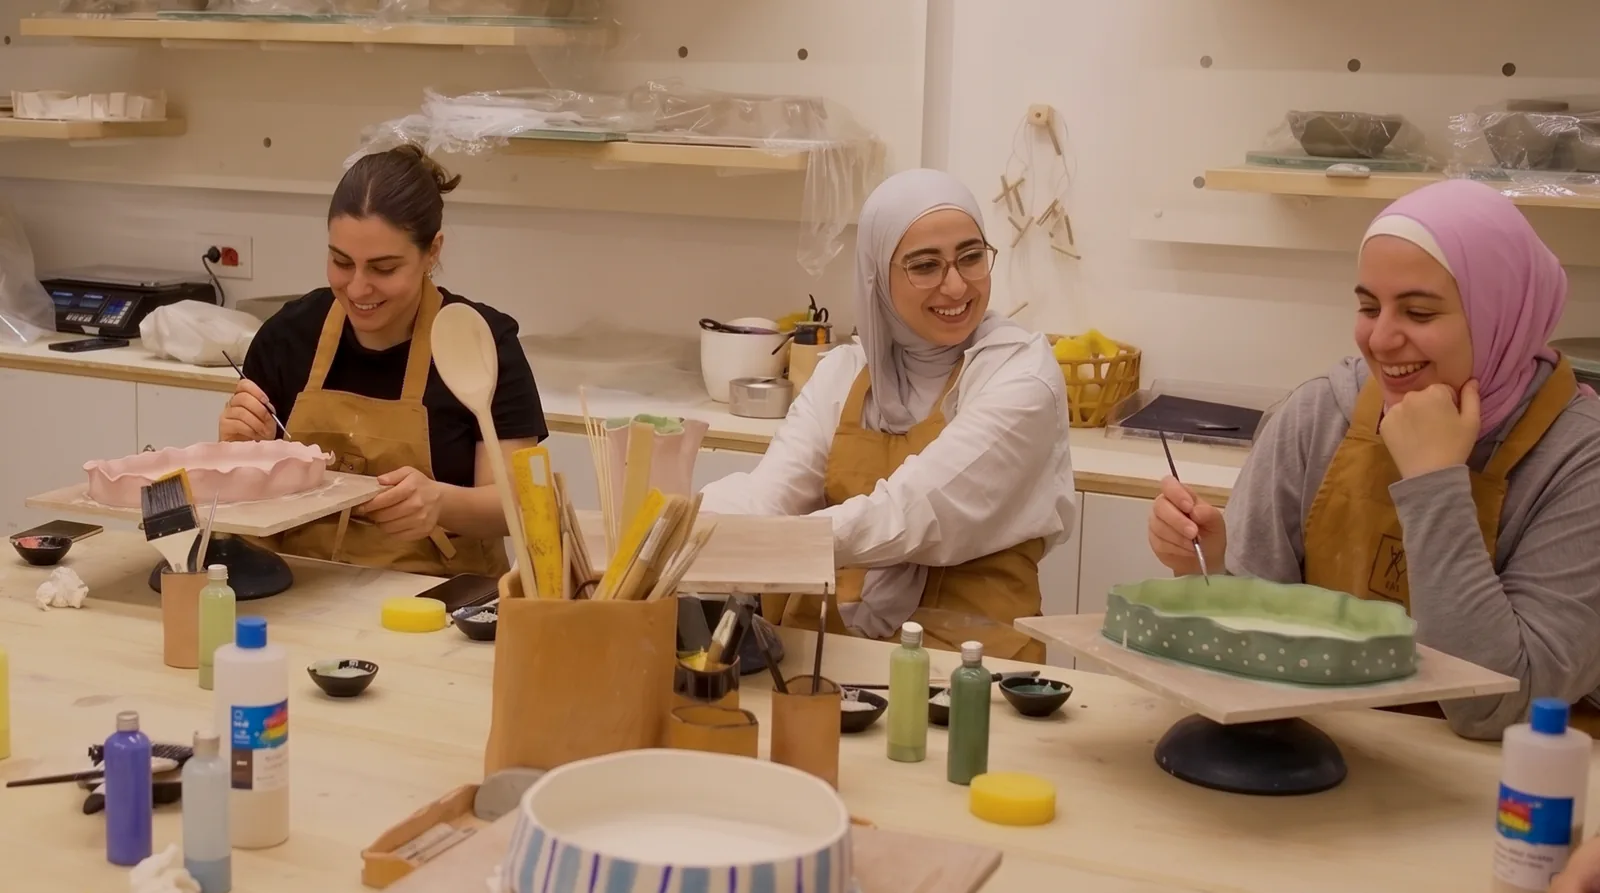
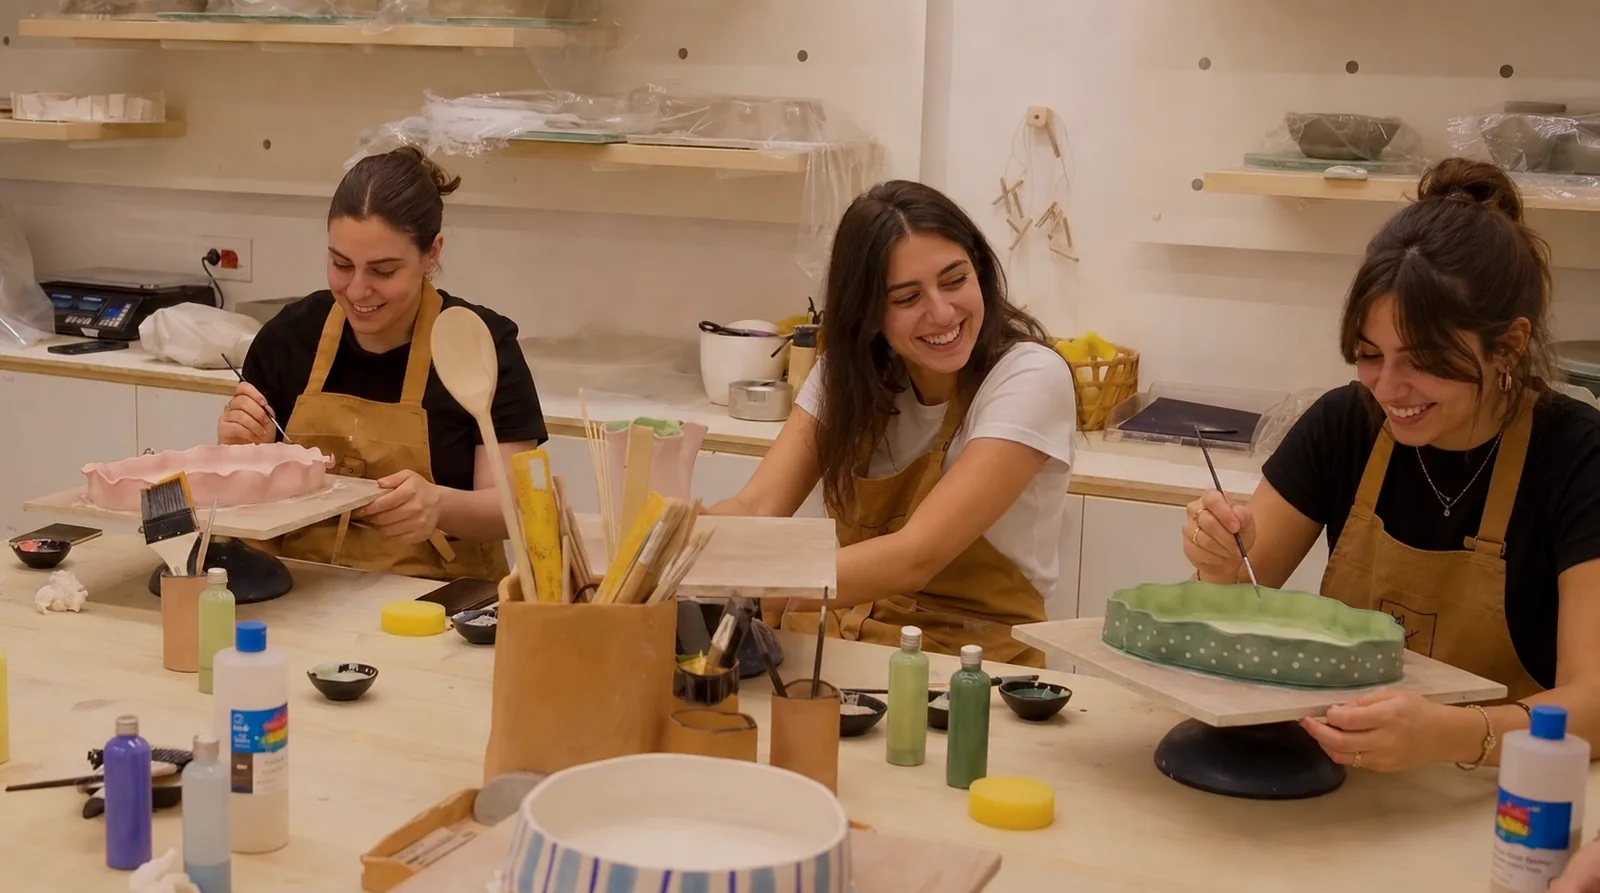
Refresh home visuals and responsive layout
Replaced placeholder CoffeeBar and tutor blocks on the Home page with real images, adjusted the section so mobile shows headings above each image, and limited the text cards to desktop. Updated asset usage by switching the studio image import from JPG to WebP and adding new home images. Also refined tutor image positioning in AboutUs and added the shared `title` class to the footer brand heading for consistent styling.

diff --git a/src/Pages/Home/Home.jsx b/src/Pages/Home/Home.jsx
@@ -21,7 +21,9 @@ import sculptureImage from "assets/images/home/sculpture.webp";
 import handbuildingImage from "assets/images/home/handbuilding.webp";
 import handbuildingMasteryImage from "assets/images/home/handbuilding-mastery.webp";
 import workshopImage from "assets/images/home/workshop-image.webp";
-import studioImage from "assets/images/home/studio-picture.jpg";
+import studioImage from "assets/images/home/studio-picture.webp";
+import coffeeBarImage from "assets/images/home/our-coffeebar.webp";
+import tutorImage from "assets/images/home/tutors-landscape.webp";
 import { Swiper, SwiperSlide } from "swiper/react";
 import { Pagination, Navigation, Autoplay, EffectFade } from "swiper/modules";
 import "swiper/css";
@@ -180,27 +182,41 @@ const Home = () => {
               </div>
             </div>
 
+            {/* Mobile only: CoffeeBar heading above its image (desktop shows it in the row below) */}
+            <div className="lg:hidden text-center mt-2">
+              <h3 className="text-2xl italic mb-2">Our CoffeeBar</h3>
+              <p className="text-gray-700">
+                Located on Rue du Liban, Way offers a cozy and stylish space to
+                freely create
+              </p>
+            </div>
+
             {/* Bottom Left - Coffeeshop Interior */}
             <div className="rounded-2xl lg:rounded-[32px] overflow-hidden h-[250px] lg:h-[300px] bg-gray-200">
               <div className="w-full h-full flex items-center justify-center text-gray-500">
-                [Coffeeshop Interior - 3D Render]
+                <img src={coffeeBarImage} alt="CoffeeBar" className="w-full h-full object-cover object-bottom" />
               </div>
             </div>
 
+            {/* Mobile only: Tutors heading above its image */}
+            <div className="lg:hidden text-center mt-2">
+              <h3 className="text-2xl italic mb-2">Our Tutors</h3>
+              <p className="text-gray-700">
+                Get to know the skilled tutors at Way, here to help you grow and
+                refine your craft.
+              </p>
+            </div>
+
             {/* Bottom Right - Tutor Card with Illustration */}
-            <div className="rounded-2xl lg:rounded-[32px] overflow-hidden h-[250px] lg:h-[300px] bg-secondary flex flex-col items-center justify-center text-white p-8">
-              <div className="text-center">
-                <div className="mb-4 text-6xl">[Portrait Illustration]</div>
-                <h3 className="text-xl font-semibold mb-1">MAYA DAHDOUH</h3>
-                <p className="text-sm opacity-90">
-                  Painter and Assistant Ceramicist
-                </p>
+            <div className="rounded-2xl lg:rounded-[32px] overflow-hidden h-[250px] lg:h-[300px] bg-gray-200">
+              <div className="w-full h-full flex items-center justify-center text-gray-500">
+                <img src={tutorImage} alt="Tutor" className="w-full h-full object-cover object-[50%_30%]" />
               </div>
             </div>
           </div>
 
-          {/* Feature Cards - CoffeeBar and Tutors */}
-          <div className="grid grid-cols-1 lg:grid-cols-2 gap-8 lg:gap-12">
+          {/* Feature Cards - CoffeeBar and Tutors (desktop only; mobile shows the headings above each image) */}
+          <div className="hidden lg:grid lg:grid-cols-2 gap-8 lg:gap-12">
             {/* CoffeeBar Card */}
             <div className="text-center lg:text-left">
               <h3 className="text-2xl lg:text-3xl italic mb-4">
@@ -210,14 +226,6 @@ const Home = () => {
                 Located on Rue du Liban, Way offers a cozy and stylish space to
                 freely create
               </p>
-              <div className="flex items-center justify-center lg:justify-start gap-4 text-primary">
-                <button className="hover:text-secondary hover:scale-110 transition-all duration-300 cursor-pointer">
-                  <CaretLeft size={24} weight="bold" />
-                </button>
-                <button className="hover:text-secondary hover:scale-110 transition-all duration-300 cursor-pointer">
-                  <CaretRight size={24} weight="bold" />
-                </button>
-              </div>
             </div>
 
             {/* Tutors Card */}
@@ -227,14 +235,6 @@ const Home = () => {
                 Get to know the skilled tutors at Way, here to help you grow and
                 refine your craft.
               </p>
-              <div className="flex items-center justify-center lg:justify-start gap-4 text-primary">
-                <button className="hover:text-secondary hover:scale-110 transition-all duration-300 cursor-pointer">
-                  <CaretLeft size={24} weight="bold" />
-                </button>
-                <button className="hover:text-secondary hover:scale-110 transition-all duration-300 cursor-pointer">
-                  <CaretRight size={24} weight="bold" />
-                </button>
-              </div>
             </div>
           </div>
         </Container>

diff --git a/src/Pages/Home/AboutUs.jsx b/src/Pages/Home/AboutUs.jsx
@@ -153,7 +153,7 @@ const AboutUs = ({ aboutUsData }) => {
                           <img
                             src={MOCK_MODE ? resolveImageUrl(image, IMAGE_URL) : `${IMAGE_URL}${image}`}
                             alt={`Our Tutors ${index + 1}`}
-                            className="w-full h-[280px] sm:h-[350px] md:h-[400px] lg:aspect-[4/5] lg:h-auto object-cover"
+                            className="w-full h-[280px] sm:h-[350px] md:h-[400px] lg:aspect-[4/5] lg:h-auto object-cover object-[50%_20%] lg:object-center"
                           />
                         </SwiperSlide>
                       ))}

diff --git a/src/Layout/Footer/Footer.jsx b/src/Layout/Footer/Footer.jsx
@@ -109,7 +109,7 @@ const Footer = () => {
         <div className="grid grid-cols-1 md:grid-cols-4 gap-20">
           {/* 0 */}
           <div className="flex flex-col items-start lg:col-span-2">
-            <h2 className="font-bold text-4xl  text-primary lg:mb-4 mb-2 tracking-widest">
+            <h2 className="title font-bold text-4xl  text-primary lg:mb-4 mb-2 tracking-widest">
               W A Y
             </h2>
             <p className="text-xs my-6">
